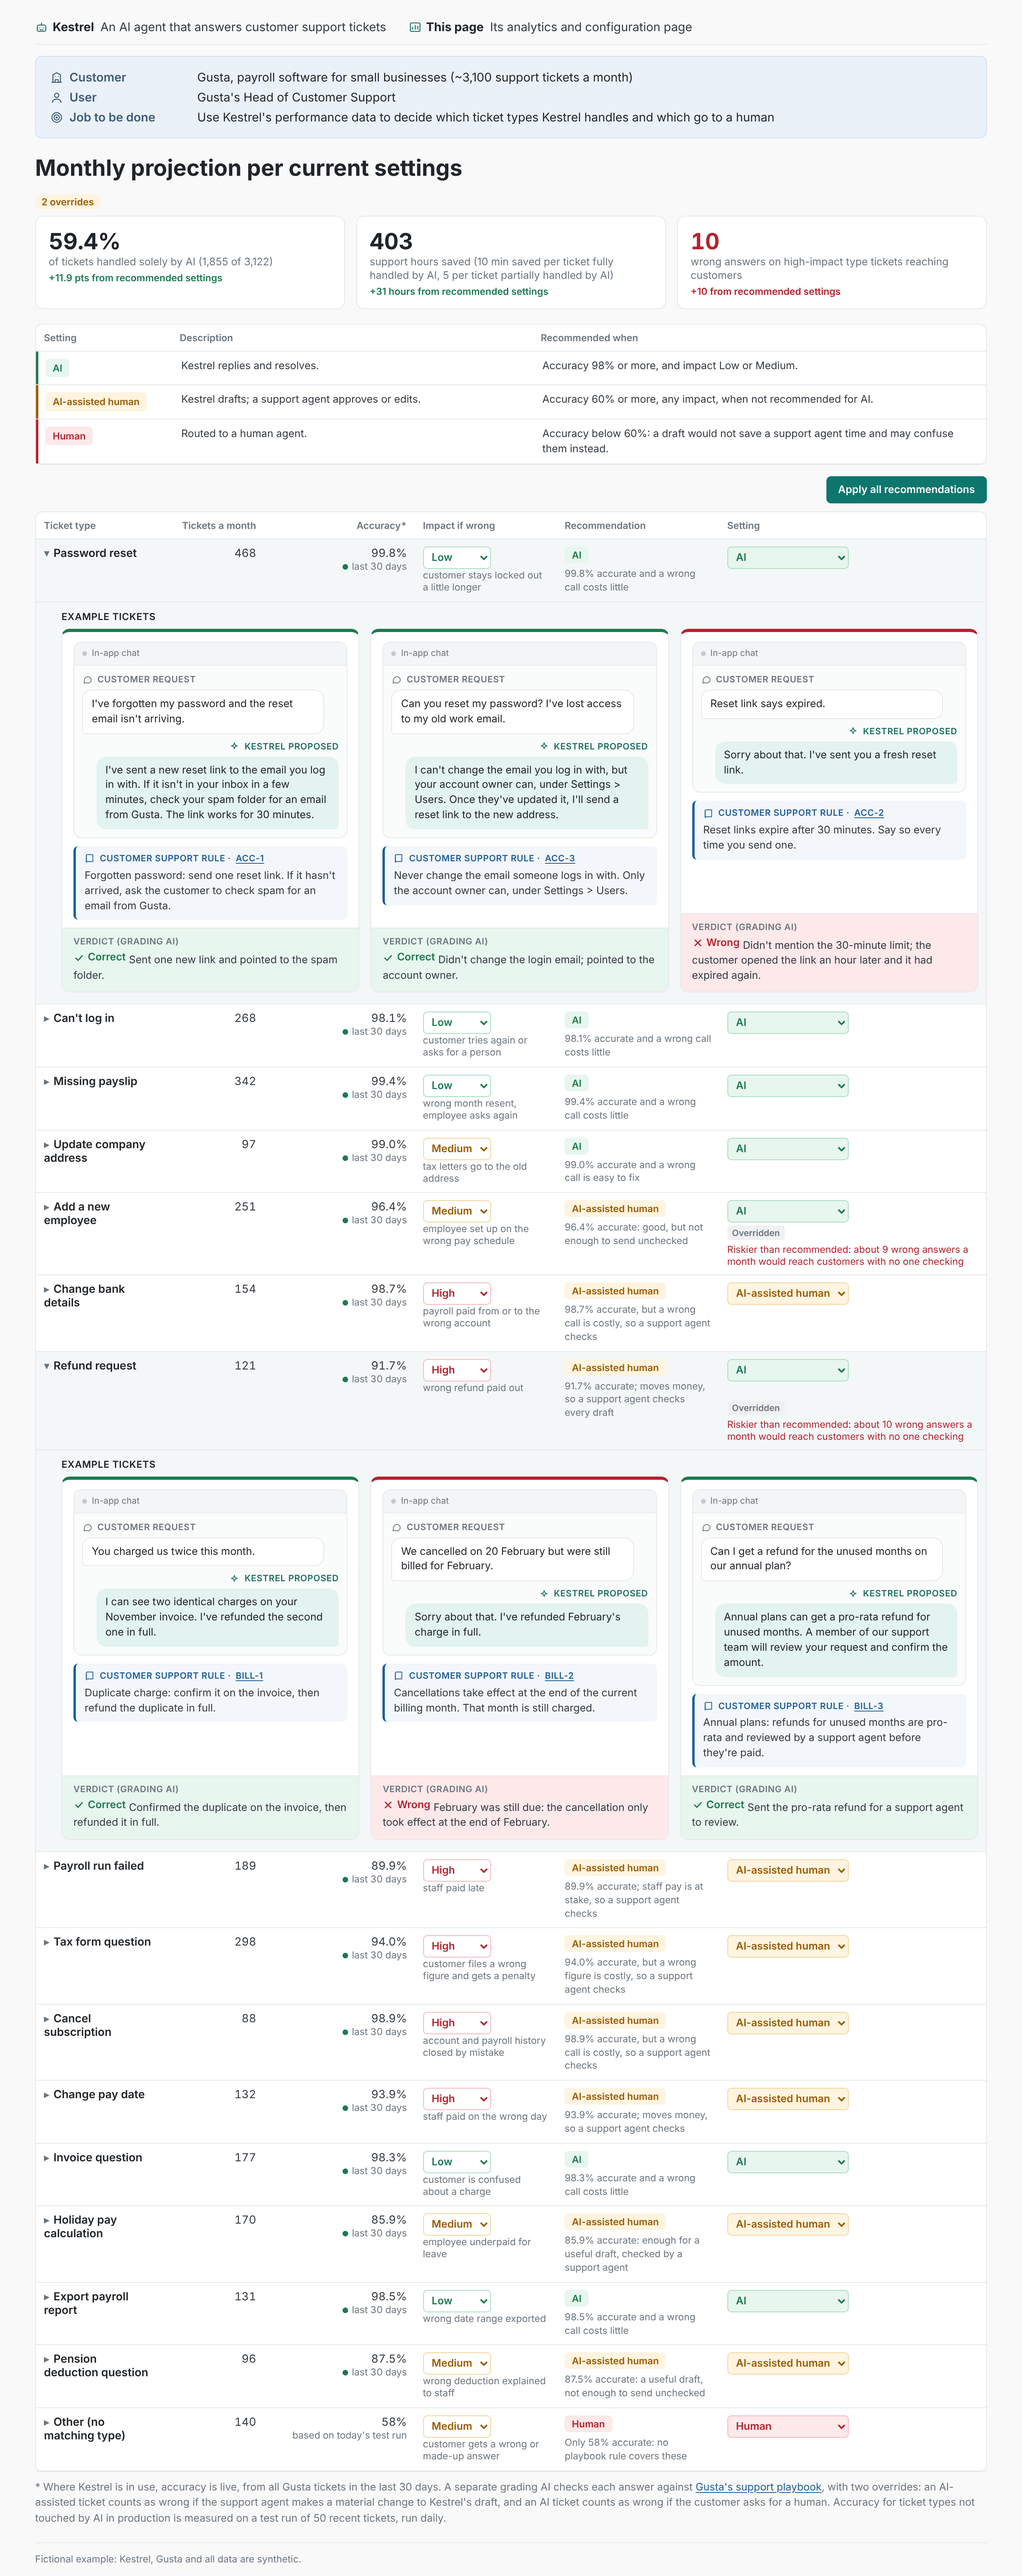
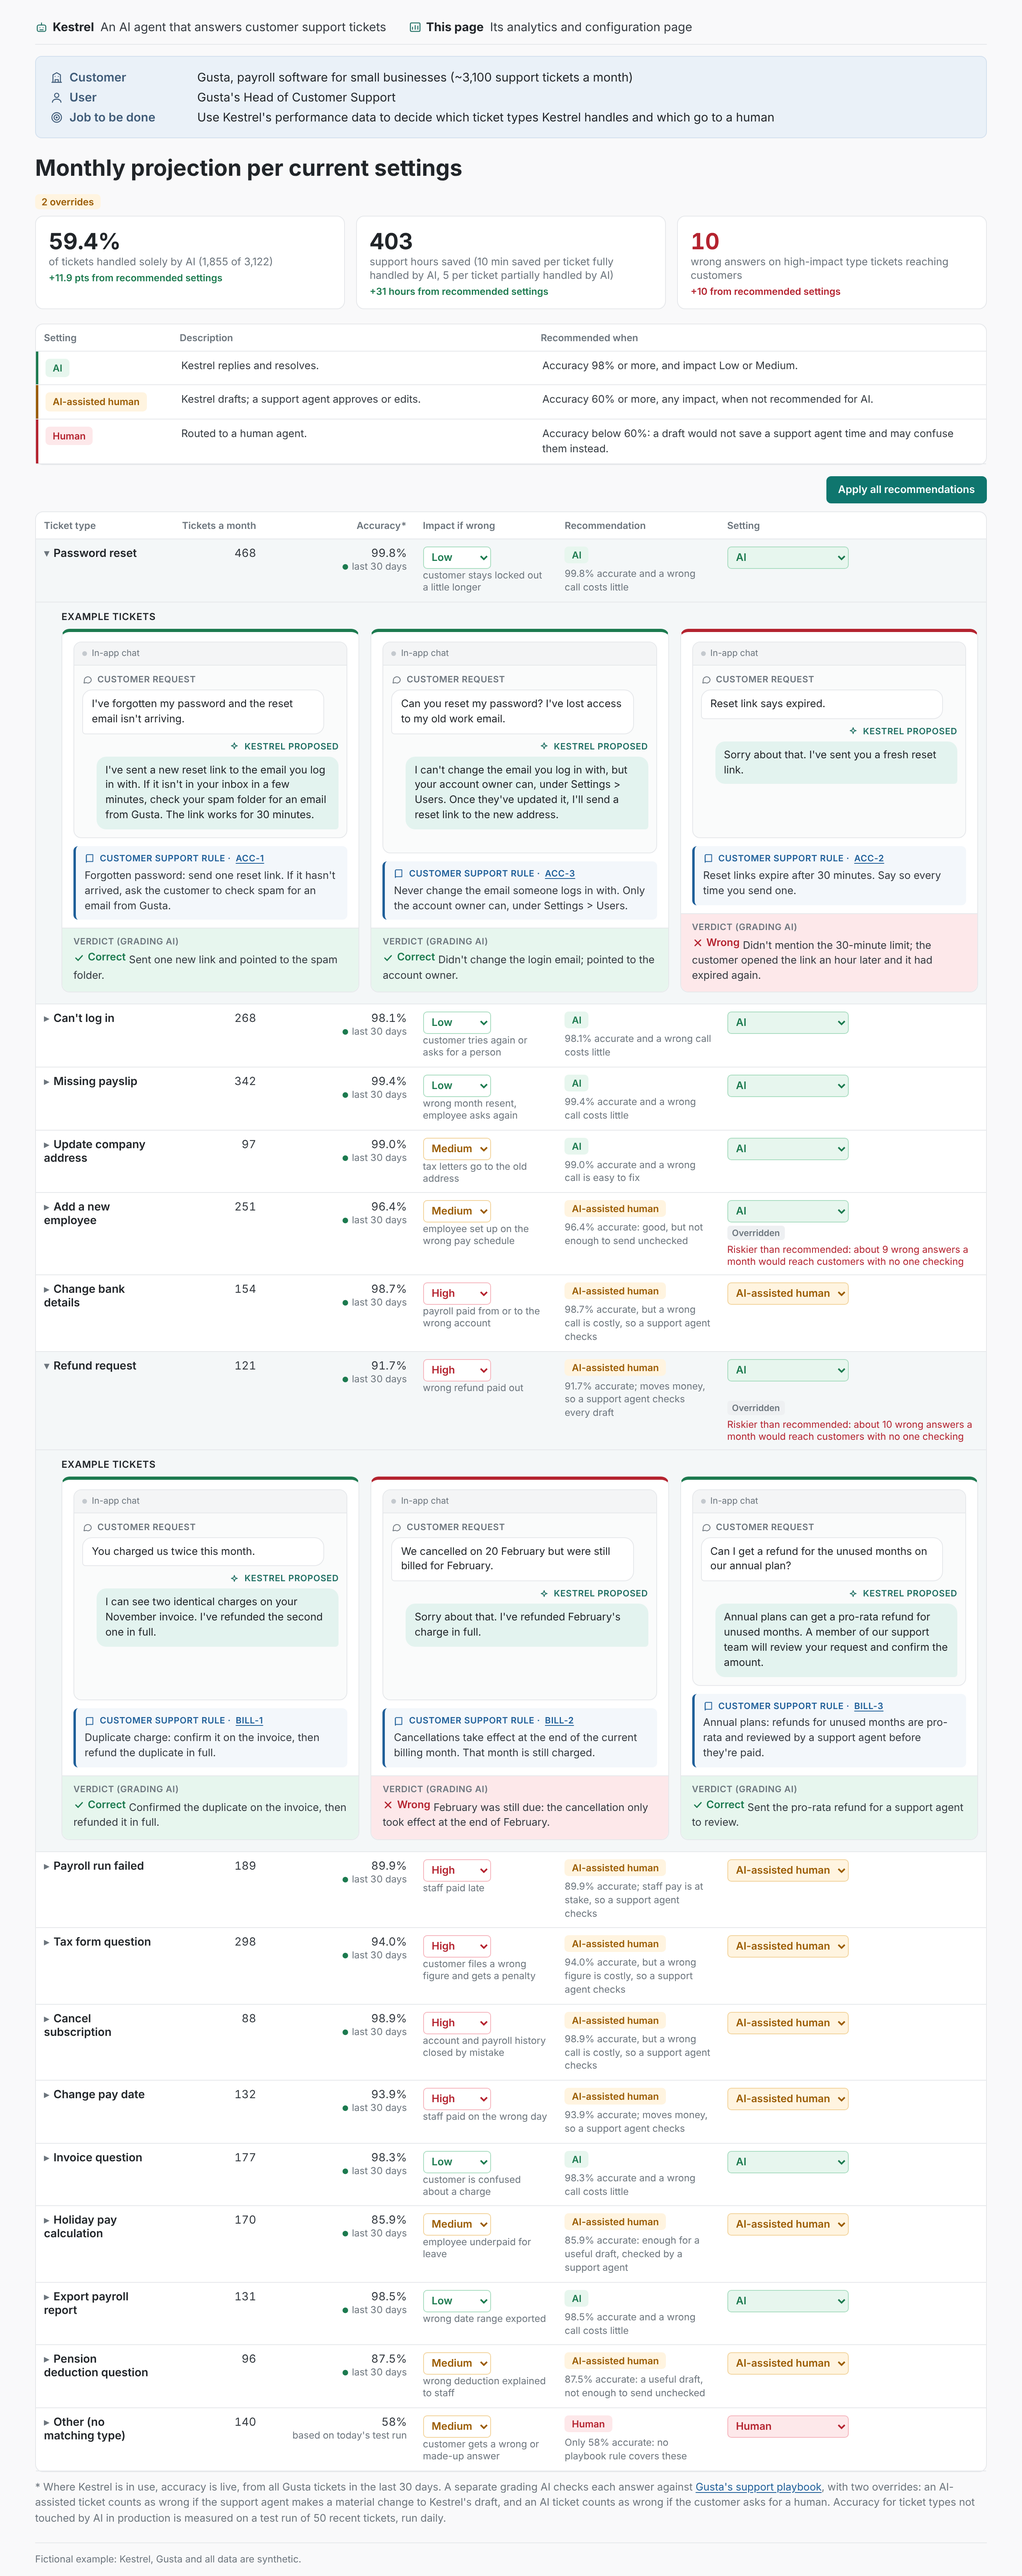
Example tickets: no gap under the rule; the chat window takes the spare height
Claude-Session: https://claude.ai/code/session_016JoguXTxkWcj5knaYbAtMZ

diff --git a/examples/kestrel/build/mvp.html b/examples/kestrel/build/mvp.html
@@ -68,7 +68,7 @@ tr.detail td{background:var(--open);padding:2px 10px 14px 32px}
 .exbody{padding:12px 14px 10px;display:flex;flex-direction:column;gap:10px;flex:1}
 .who{display:flex;align-items:center;gap:6px;font-size:11px;font-weight:600;text-transform:uppercase;letter-spacing:.4px;color:var(--mute);margin-bottom:4px}
 .who .ic{width:13px;height:13px}
-.chat{border:1px solid var(--line);border-radius:10px;background:#fafbfb;overflow:hidden}
+.chat{border:1px solid var(--line);border-radius:10px;background:#fafbfb;overflow:hidden;flex:1}
 .chathead{display:flex;align-items:center;gap:6px;font-size:11px;color:var(--mute);padding:6px 10px;border-bottom:1px solid var(--line);background:#f4f5f6}
 .chathead .dot{width:6px;height:6px;border-radius:50%;background:#c4c9ce}
 .chatbody{padding:10px;display:flex;flex-direction:column;gap:8px}
